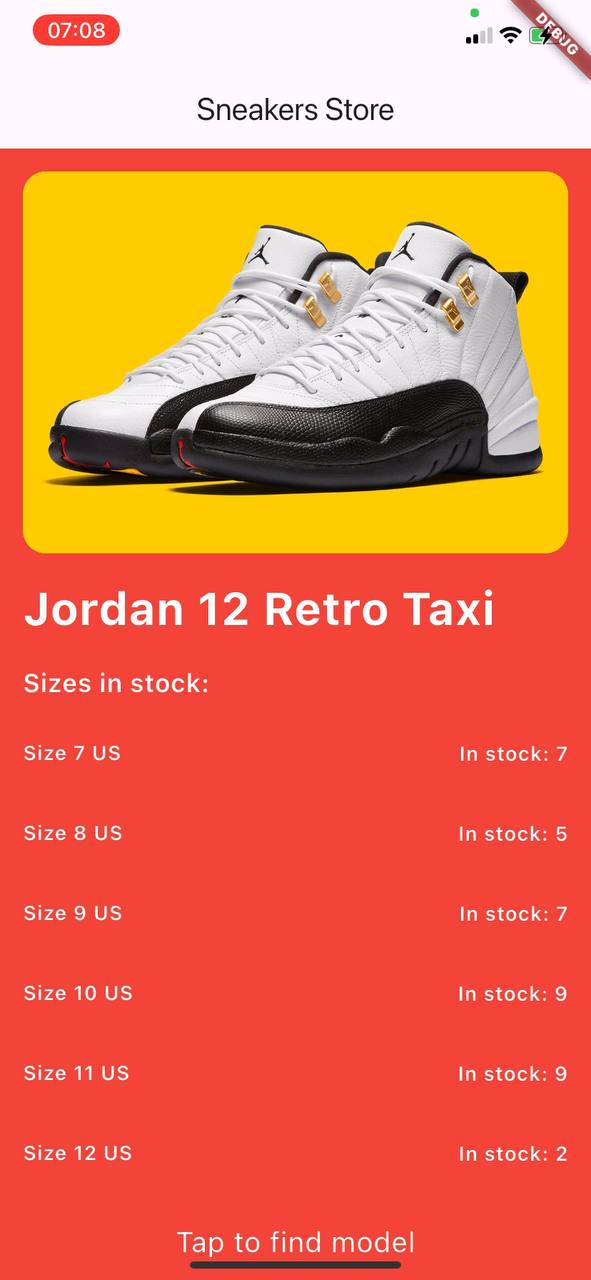
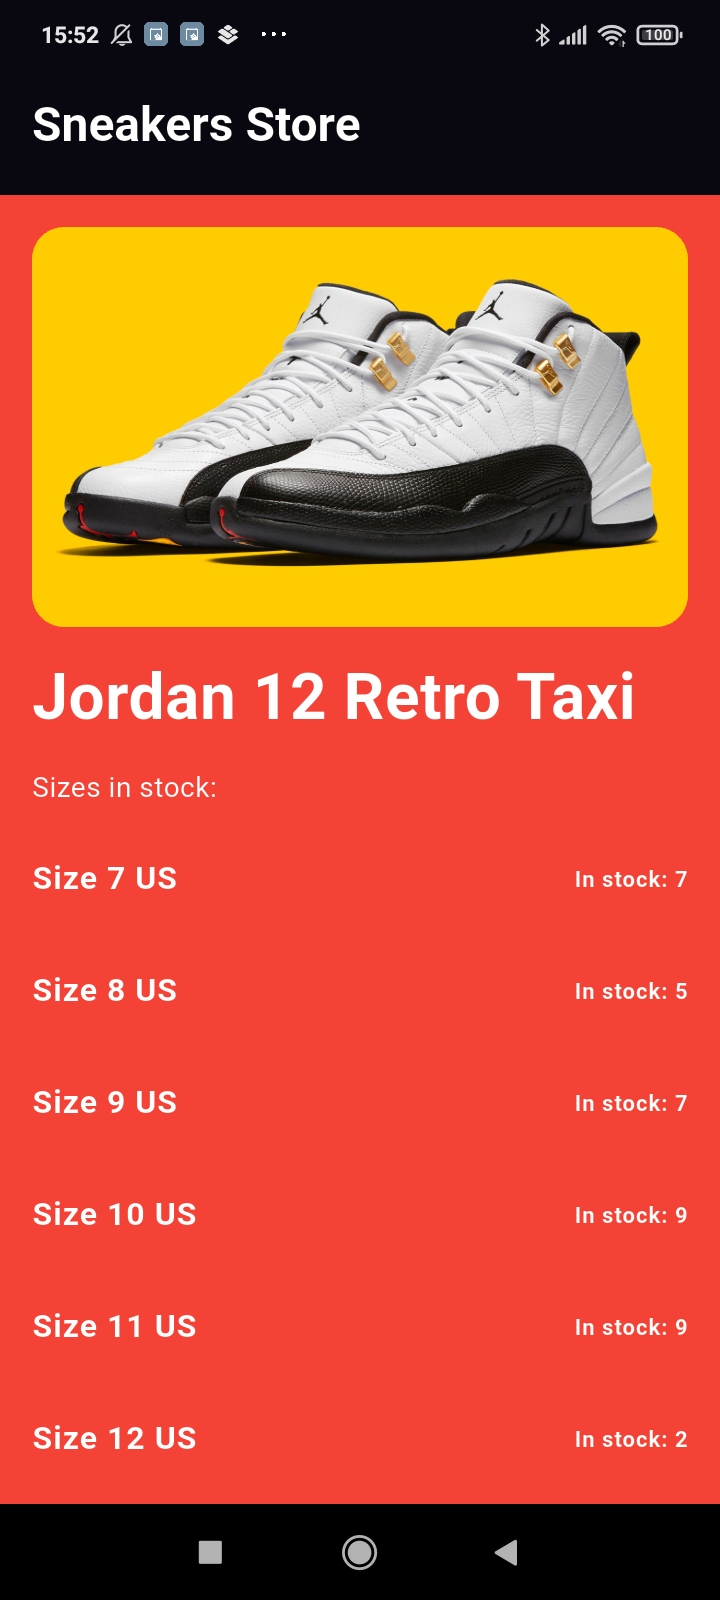
fix: правки документации

diff --git a/lib/bloc/data_layer_bloc/shop_goods_availability/data_repository_impls/goods_in_stock_mock_repository.dart b/lib/bloc/data_layer_bloc/shop_goods_availability/data_repository_impls/goods_in_stock_mock_repository.dart
@@ -94,11 +94,15 @@ class GoodsInStockMockRepository implements GoodsInStockRepositoryProtocol {
         return ShopItem(
           imageUrl:
               'https://sneakernews.com/wp-content/uploads/2016/07/air-jordan-9-kobe-bryant-pe-2016.jpg',
-          name: 'Jordan 9 Lakers',
+          name:
+              'Jordan 9 Lakers very very long name test very very long name test very very long name test very very long name test',
           sizesInStock: {
-            '7 US': 0,
-            '8 US': 0,
-            '9 US': 0,
+            '7 US very very long name test very very long name test very very long name test':
+                0,
+            '8 US very very long name test very very long name test very very long name test':
+                0,
+            '9 US very very long name test very very long name test very very long name test':
+                4123412341234123453,
             '10 US': 0,
             '11 US': 1,
             '12 US': 0,

diff --git a/lib/widgets/home_page/widgets/shop_item_widget.dart b/lib/widgets/home_page/widgets/shop_item_widget.dart
@@ -34,7 +34,7 @@ class ShopItemWidget extends StatelessWidget {
             child: Image.network(
               state.shopItem?.imageUrl ?? '',
               width: double.infinity,
-              fit: BoxFit.cover,
+              fit: BoxFit.fill,
               height: imageHeight,
               alignment: Alignment.center,
               loadingBuilder: (context, child, loadingProgress) {

diff --git a/lib/theme/responsive_config.dart b/lib/theme/responsive_config.dart
@@ -52,9 +52,9 @@ class ResponsiveConfig {
   static double getImageHeight(BuildContext context) {
     final width = MediaQuery.of(context).size.width;
     if (width < mobileMaxWidth) {
-      return 200.0; // Mobile
+      return 250.0; // Mobile
     } else if (width < desktopMinWidth) {
-      return 300.0; // Tablet
+      return 400.0; // Tablet
     }
     return 400.0; // Desktop
   }

diff --git a/lib/app_settings.dart b/lib/app_settings.dart
@@ -1,5 +1,5 @@
 class AppSettings {
-  bool isMockOn = true;
+  bool isMockOn = false;
   String appName = 'Sneakers Store';
   String serverIP =
       '192.168.1.35'; // Replace with your backend server machine IP adress, find with "ipconfig" command on windows.

diff --git a/README.md b/README.md
@@ -143,28 +143,28 @@ https://drive.google.com/drive/folders/1pdoobQEN1ZoZ0jdwCH0acMS6egbV-kFs?usp=sha
 ## Скриншоты проверки адекватности unit тестов
 
 ### Manual Test Screen 1
-![Manual Test 1](manual%20tests/made%20manual%20tests%20screens/manual_test_1.jpg)
+![Manual Test 1](manual%20tests/unit%20tests/manual_test_1.jpg)
 
 ### Manual Test Screen 2
-![Manual Test 2](manual%20tests/made%20manual%20tests%20screens/manual_test_2.jpg)
+![Manual Test 2](manual%20tests/unit%20tests/manual_test_2.jpg)
 
 ### Manual Test Screen 3
-![Manual Test 3](manual%20tests/made%20manual%20tests%20screens/manual_test_3.jpg)
+![Manual Test 3](manual%20tests/unit%20tests/manual_test_3.jpg)
 
 ### Manual Test Screen 4
-![Manual Test 4](manual%20tests/made%20manual%20tests%20screens/manual_test_4.jpg)
+![Manual Test 4](manual%20tests/unit%20tests/manual_test_4.jpg)
 
 ### Manual Test Screen 5
-![Manual Test 5](manual%20tests/made%20manual%20tests%20screens/manual_test_5.jpg)
+![Manual Test 5](manual%20tests/unit%20tests/manual_test_5.jpg)
 
 ### Manual Test Screen 6
-![Manual Test 6](manual%20tests/made%20manual%20tests%20screens/manual_test_6.jpg)
+![Manual Test 6](manual%20tests/unit%20tests/manual_test_6.jpg)
 
 ### Manual Test Screen 7
-![Manual Test 7](manual%20tests/made%20manual%20tests%20screens/manual_test_7.jpg)
+![Manual Test 7](manual%20tests/unit%20tests/manual_test_7.jpg)
 
 ### Manual Test Screen 8
-![Manual Test 8](manual%20tests/made%20manual%20tests%20screens/manual_test_8.jpg)
+![Manual Test 8](manual%20tests/unit%20tests/manual_test_8.jpg)
 
 
 14. UI/UX принципы 
@@ -281,9 +281,13 @@ Set-ExecutionPolicy -ExecutionPolicy RemoteSigned -Scope CurrentUser
 Отступы, шрифты и размеры иконок стандартизированы. Их значения вынесены в отдельные файлы: spacing_config.dart, typography_config.dart, icon_sizing_config.dart
 
 ## Скриншоты мануальных тестов CI
-![CI Manual Test 1](manual%20tests/ci%20manual%20tests/ci_test_1.jpg)
-![CI Manual Test 2](manual%20tests/ci%20manual%20tests/ci_test_2.jpg)
-![CI Manual Test 3](manual%20tests/ci%20manual%20tests/ci_test_3.jpg)
+![CI Manual Test 1](manual%20tests/ci/ci_test_1.jpg)
+![CI Manual Test 2](manual%20tests/ci/ci_test_2.jpg)
+![CI Manual Test 3](manual%20tests/ci/ci_test_3.jpg)
+
+## Скриншоты мануального теста кейса ввода заказчиком длинных полей на сервере
+![Long Input Test 1](manual%20tests/long%20input/long_input_test1.jpg)
+![Long Input Test 2](manual%20tests/long%20input/long_input_test2.jpg)
 
 ## Документация к анимациям проекта:
 
